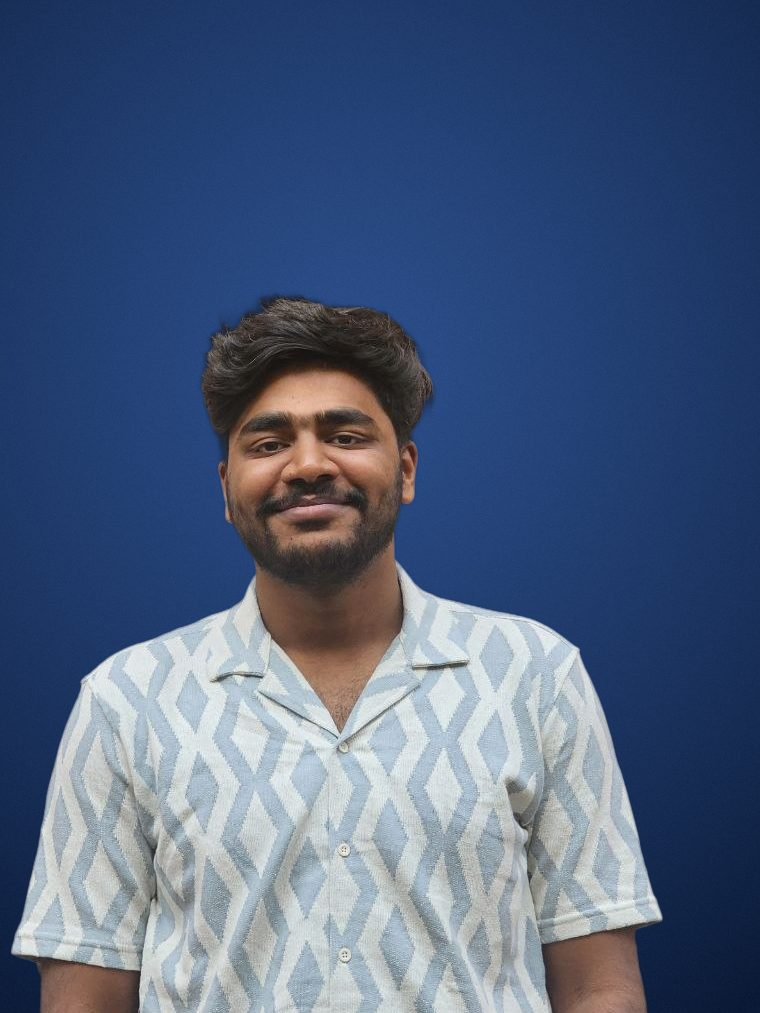
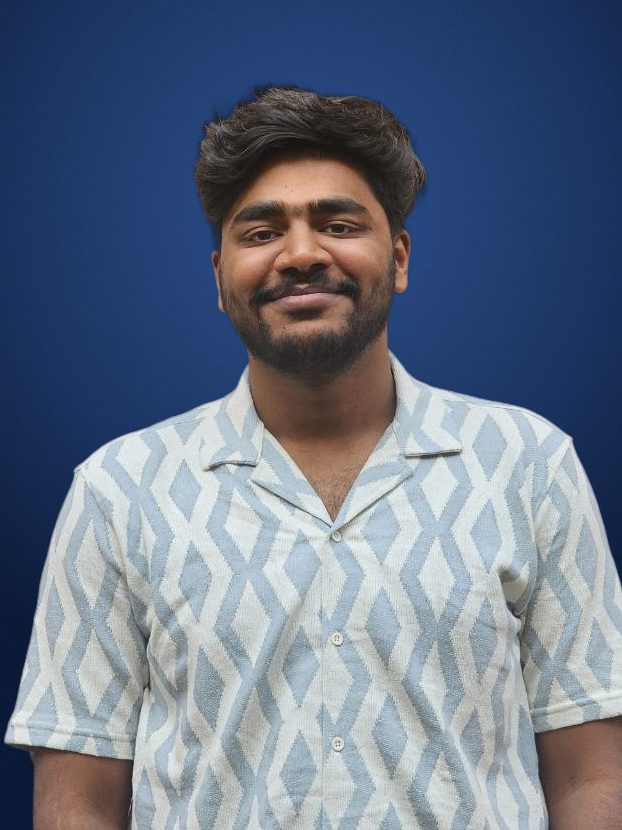
Tighten hero photo crop, drop location line, update domains

diff --git a/components/Hero.tsx b/components/Hero.tsx
@@ -118,14 +118,14 @@ const Hero: React.FC = () => {
             <picture>
               <source
                 type="image/webp"
-                srcSet="/profile-photo-480.webp 480w, /profile-photo.webp 760w"
+                srcSet="/profile-photo-480.webp 480w, /profile-photo.webp 622w"
                 sizes="(min-width: 1024px) 33vw, (min-width: 768px) 50vw, 100vw"
               />
               <img
                 src="/profile-photo.jpg"
                 alt="Portrait of Muhammed Roshan M"
-                width={760}
-                height={1013}
+                width={622}
+                height={830}
                 fetchPriority="high"
                 decoding="async"
                 className="absolute inset-0 h-full w-full object-cover object-[50%_25%]"
@@ -144,7 +144,6 @@ const Hero: React.FC = () => {
               </span>
               <span>Open to strategic projects &amp; AI data ops roles</span>
             </p>
-            <p className="mt-1.5 pl-[1.125rem] text-[0.9rem] font-medium text-white/80">{PERSONAL_INFO.location}</p>
           </figcaption>
         </motion.figure>
 

diff --git a/index.html b/index.html
@@ -93,7 +93,7 @@
     <link rel="preconnect" href="https://fonts.gstatic.com" crossorigin>
     <link href="https://fonts.googleapis.com/css2?family=Inter:opsz,wght@14..32,400..700&family=Schibsted+Grotesk:wght@500..700&display=swap" rel="stylesheet">
     <!-- Matches the hero <picture> source so each viewport preloads the file it will use. -->
-    <link rel="preload" as="image" type="image/webp" imagesrcset="/profile-photo-480.webp 480w, /profile-photo.webp 760w" imagesizes="(min-width: 1024px) 33vw, (min-width: 768px) 50vw, 100vw" fetchpriority="high">
+    <link rel="preload" as="image" type="image/webp" imagesrcset="/profile-photo-480.webp 480w, /profile-photo.webp 622w" imagesizes="(min-width: 1024px) 33vw, (min-width: 768px) 50vw, 100vw" fetchpriority="high">
   </head>
   <body>
     <div id="root"></div>

diff --git a/constants.ts b/constants.ts
@@ -3,7 +3,6 @@ import { Experience, Project, Award, SkillCategory, Position, Education, Princip
 export const PERSONAL_INFO = {
   name: "Muhammed Roshan M",
   tagline: "AI Data Operations | Evaluation & Delivery | Physics-trained",
-  location: "Bhopal, India. Ready to relocate.",
   email: "muhammedroshanmangat@gmail.com",
   linkedin: "https://www.linkedin.com/in/mroshan1",
   github: "https://github.com/roshanm20",
@@ -164,7 +163,7 @@ export const SKILLS: SkillCategory[] = [
   },
   {
     category: "Domains Worked",
-    skills: ["Physics", "Mathematics", "Biology", "Electrical Engineering", "Quant", "Astronomy"]
+    skills: ["Physics", "Mathematics", "Biology", "Quant", "Astronomy", "Operations", "Data Analysis"]
   },
   {
     category: "Languages",
